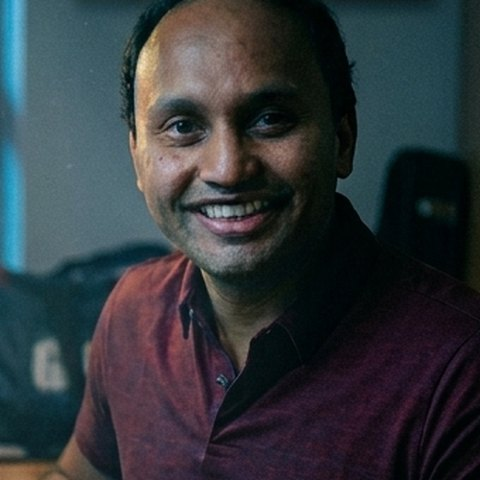
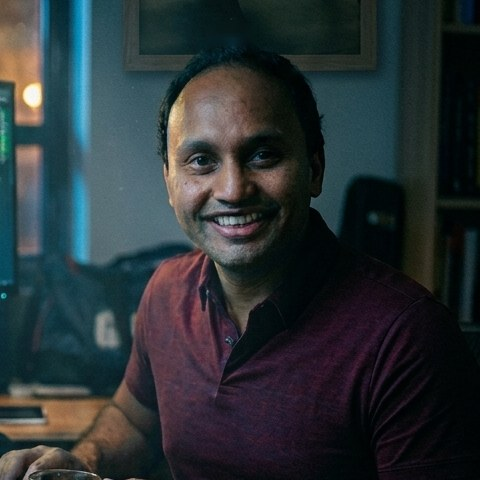
Round photo: show the full head of hair

diff --git a/index.html b/index.html
@@ -43,7 +43,7 @@
 <main id="main">
 <section class="hero">
   <div class="wrap hero-me">
-    <div class="avatar"><img src="/assets/img/venkat.jpg" width="168" height="168" alt="Venkat Sadras" fetchpriority="high"></div>
+    <div class="avatar"><img src="/assets/img/venkat.jpg?v=2" width="168" height="168" alt="Venkat Sadras" fetchpriority="high"></div>
     <div>
       <p class="eyebrow">Venkat Sadras · Product manager · Bay Area</p>
       <h1>I build AI agents, and the guardrails that keep them honest.</h1>

diff --git a/about/index.html b/about/index.html
@@ -42,7 +42,7 @@
 <main id="main">
 <section class="hero">
   <div class="wrap narrow hero-me">
-    <div class="avatar"><img src="/assets/img/venkat.jpg" width="168" height="168" alt="Venkat Sadras" fetchpriority="high"></div>
+    <div class="avatar"><img src="/assets/img/venkat.jpg?v=2" width="168" height="168" alt="Venkat Sadras" fetchpriority="high"></div>
     <div>
       <p class="eyebrow">About</p>
       <h1>Product manager by day. Agent tamer at home.</h1>
